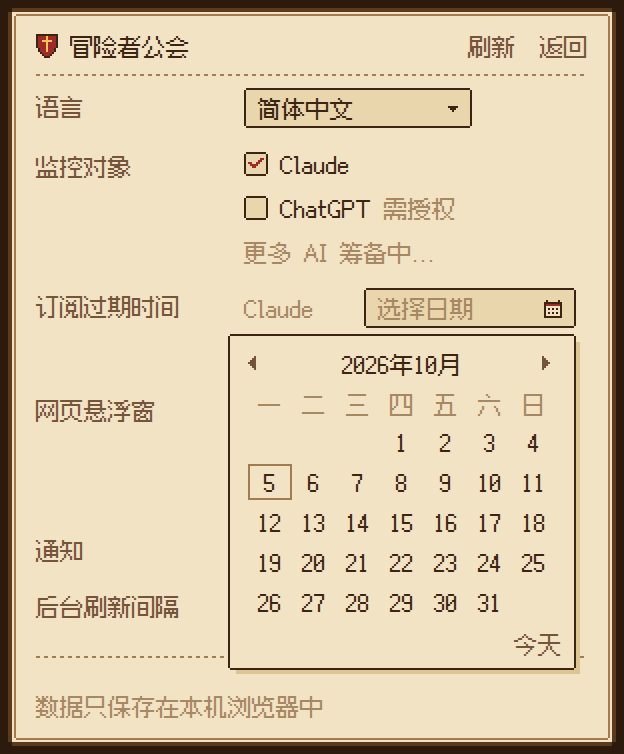
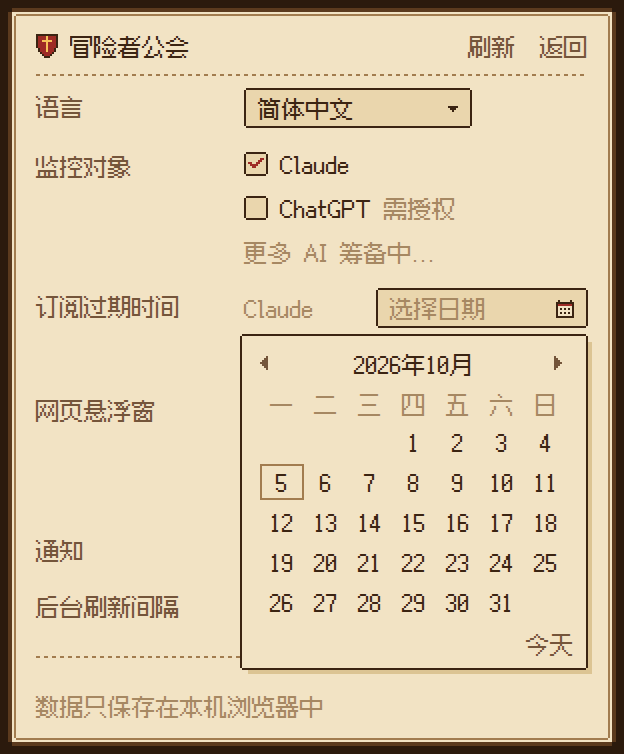
Add an English README; keep settings inside the card in every language
README.en.md mirrors the Chinese README with English UI screenshots
(docs/screenshots/en/), and both link to each other.

The English settings page ran past the card: the date row's Clear button
and the nowrap hint went off the right edge, and the HUD size row widened
the column. Clear now sits in the calendar's footer next to Today (Delete
also clears), the hint wraps, the date field sits on the column's right
edge so the open calendar covers the hint, and the inline size slider is
shorter. The preview now checks that nothing sticks out of the card in
Chinese, Japanese and English, and takes the English screenshots.

Claude-Session: https://claude.ai/code/session_01TFnLwZH9ayDfRYS7Y7nd9t

Changed region(s): [[0.3654, 0.366, 0.9744, 0.9151], [0.5785, 0.366, 0.7917, 0.4271], [0.5785, 0.6101, 0.609, 0.6406]]

diff --git a/extension/popup/controls.js b/extension/popup/controls.js
@@ -148,6 +148,7 @@ const dayKey = date => `${date.getFullYear()}-${pad(date.getMonth() + 1)}-${pad(
 
 /**
  * A date field with a pixel calendar. Values are YYYY-MM-DD strings ('' for none).
+ * The calendar's footer has Today, and Clear while a date is set (also Delete).
  *
  * @param {Document} doc
  * @param {{onChange: (day: string) => void, translator: () => Function, format: (ms: number) => string}} options
@@ -162,11 +163,12 @@ export function pixelDate(doc, { onChange, translator, format }) {
   const prev = h(doc, 'button', { class: 'pix-cal-nav prev', type: 'button' });
   const next = h(doc, 'button', { class: 'pix-cal-nav next', type: 'button' });
   const grid = h(doc, 'div', { class: 'pix-cal-grid', role: 'grid' });
-  const today = h(doc, 'button', { class: 'cmd', type: 'button' });
+  const clear = h(doc, 'button', { class: 'cmd pix-cal-clear', type: 'button' });
+  const today = h(doc, 'button', { class: 'cmd pix-cal-today', type: 'button' });
   const panel = h(doc, 'div', { class: 'pix-cal', role: 'dialog', hidden: true }, [
     h(doc, 'div', { class: 'pix-cal-head' }, [prev, title, next]),
     grid,
-    h(doc, 'div', { class: 'pix-cal-foot' }, today),
+    h(doc, 'div', { class: 'pix-cal-foot' }, [clear, today]),
   ]);
   const root = h(doc, 'span', { class: 'pix-dd' }, [button, panel]);
 
@@ -201,6 +203,8 @@ export function pixelDate(doc, { onChange, translator, format }) {
     prev.setAttribute('aria-label', t('cal.prev'));
     next.setAttribute('aria-label', t('cal.next'));
     today.textContent = t('cal.today');
+    clear.textContent = t('action.clear');
+    clear.hidden = !value;
 
     const weekStart = Number(t('cal.weekStart')) || 0;
     const names = t('cal.weekdays').split(',');
@@ -262,12 +266,17 @@ export function pixelDate(doc, { onChange, translator, format }) {
   prev.addEventListener('click', () => moveCursor(0, -1));
   next.addEventListener('click', () => moveCursor(0, 1));
   today.addEventListener('click', () => choose(dayKey(new Date())));
+  clear.addEventListener('click', () => choose(''));
   panel.addEventListener('keydown', event => {
     const keys = { ArrowLeft: [-1, 0], ArrowRight: [1, 0], ArrowUp: [-7, 0], ArrowDown: [7, 0], PageUp: [0, -1], PageDown: [0, 1] };
+    const onDay = event.target.classList?.contains('pix-cal-day');
     if (event.key === 'Escape') {
       event.preventDefault();
       control.close(true);
-    } else if (event.target.classList?.contains('pix-cal-day') && event.key in keys) {
+    } else if (onDay && (event.key === 'Delete' || event.key === 'Backspace') && value) {
+      event.preventDefault();
+      choose('');
+    } else if (onDay && event.key in keys) {
       event.preventDefault();
       moveCursor(...keys[event.key]);
     }

diff --git a/extension/popup/popup.js b/extension/popup/popup.js
@@ -146,11 +146,11 @@ const expiryFields = PROVIDERS.map(provider => {
     translator: () => t,
     format: ms => formatDate(ms, t.tag),
   });
-  const clear = h(doc, 'button', { class: 'cmd', type: 'button', onclick: () => saveDay('') });
   const name = h(doc, 'span', { class: 'set-sub set-name', text: provider.name });
-  return { provider, picker, clear, wrap: h(doc, 'div', { class: 'set-inline' }, [name, picker.el, clear]) };
+  // Clearing lives in the calendar's footer, so the row fits in every language.
+  return { provider, picker, wrap: h(doc, 'div', { class: 'set-inline set-date' }, [name, picker.el]) };
 });
-const expiryHint = h(doc, 'span', { class: 'set-hint' });
+const expiryHint = h(doc, 'span', { class: 'set-hint wrap' });
 
 const pollSlider = slider({
   ...POLL_RANGE,
@@ -236,13 +236,10 @@ function renderSettings() {
     check.text.textContent = provider.name;
     check.extra.textContent = provider.optionalPermission && !check.input.checked ? t('settings.needsPermission') : '';
   }
-  for (const { provider, picker, clear, wrap } of expiryFields) {
+  for (const { provider, picker, wrap } of expiryFields) {
     wrap.hidden = !watching.includes(provider);
-    const day = settings.rankExpiry[provider.id] ?? '';
-    picker.setValue(day);
+    picker.setValue(settings.rankExpiry[provider.id] ?? '');
     picker.setLabel(`${provider.name} ${t('settings.rankExpiry')}`);
-    clear.textContent = t('action.clear');
-    clear.hidden = !day;
   }
 
   pollSlider.set(settings.pollMinutes);

diff --git a/extension/popup/popup.css b/extension/popup/popup.css
@@ -81,6 +81,11 @@ body {
   flex: none;
 }
 
+/* A longer hint under a field: wraps instead of running past the card. */
+.set-hint.wrap {
+  white-space: normal;
+}
+
 .set-inline {
   display: flex;
   align-items: center;
@@ -204,6 +209,16 @@ body {
 .pix-range-value {
   min-width: 42px;
   white-space: nowrap;
+}
+
+/* Sharing a line with its label (HUD size: five steps, values all one width),
+   the slider is shorter so the row stays inside the card in every language. */
+.set-inline > .pix-range input {
+  width: 72px;
+}
+
+.set-inline > .pix-range .pix-range-value {
+  min-width: 0;
 }
 
 /* ------------------------------------------------- vendor tabs */
@@ -366,6 +381,15 @@ body {
   min-width: 52px;
 }
 
+/* Date field on the column's right edge, so its calendar covers the hint below it entirely. */
+.set-date {
+  align-self: stretch;
+}
+
+.set-date .pix-dd {
+  margin-left: auto;
+}
+
 .pix-cal {
   left: auto;
   right: 1px;
@@ -466,6 +490,10 @@ body {
 
 .pix-cal-foot {
   display: flex;
-  justify-content: flex-end;
   margin-top: 4px;
+}
+
+/* Clear on the left while a date is set; Today always on the right. */
+.pix-cal-today {
+  margin-left: auto;
 }

diff --git a/README.en.md b/README.en.md
@@ -1,0 +1,235 @@
+# Web AI Monitor - Adventurer's Guild
+
+[简体中文](README.md) | English
+
+A Chrome extension (Manifest V3) that shows how much of each AI's usage limits you have left, with live reset countdowns, as a pixel-art "adventurer's guild card" from an isekai fantasy world. It currently supports Claude and ChatGPT. Each vendor's limit plan template, data fetching and UI are decoupled: every vendor has its own set of gauges, treasures and rank ladder, and nothing from one vendor is forced onto another.
+
+| Claude | ChatGPT |
+| --- | --- |
+| ![Claude card](docs/screenshots/en/popup-claude.png) | ![ChatGPT card](docs/screenshots/en/popup-chatgpt.png) |
+
+| Page HUD (follows the vendor picked in the popup) | Settings (pixel calendar) |
+| --- | --- |
+| ![Claude HUD](docs/screenshots/en/hud-claude.png)<br><br>![ChatGPT HUD](docs/screenshots/en/hud-chatgpt.png)<br><br>Collapsed: ![Claude collapsed](docs/screenshots/hud-collapsed.png) ![ChatGPT collapsed](docs/screenshots/hud-collapsed-chatgpt.png) | ![Settings](docs/screenshots/en/settings.png)<br><br>![Calendar](docs/screenshots/en/settings-calendar.png) |
+
+The UI is available in Simplified Chinese (default), Japanese and English. The screenshots above are the English UI; the [Chinese README](README.md) shows the Chinese one.
+
+## Gauges (Claude)
+
+| Gauge | RPG meaning | Claude limit | Notes |
+| --- | --- | --- | --- |
+| MP Mana | Blue bar | Current session (5-hour session) | Drains as you use it; refills when the session ends |
+| HP Health | Green -> yellow -> red | Weekly / All models | Turns yellow below 50% left, red below 20% |
+| SP Ultimate | Gold ultimate bar | Weekly / Fable | Full = no Fable used yet, flashes READY!; using Fable drains it, the weekly reset refills it |
+| EX Extra | Greyish brown | Any new limit the template does not name | Popup only, so nothing is lost when Anthropic adds a limit |
+
+- Every bar shows what is **left** (= 100 - the used% on claude.ai's settings page).
+- Every bar has a live countdown: `2:13:45` under a day, `3d 04:12:09` beyond that (`3d4h` in the HUD).
+- Before a session starts, MP shows "Standby". When a countdown runs out the bar shows "Recovering..." and refills, and the background fetches fresh numbers right away.
+- On Pro or standard Team seats, which have no weekly Fable allowance, SP shows "Sealed".
+
+## The ChatGPT scheme
+
+Since August 2026 ChatGPT's text chat no longer has message caps; what actually runs out is the Codex allowance. So the ChatGPT card is a scheme of its own:
+
+| Element | ChatGPT meaning | Notes |
+| --- | --- | --- |
+| MP Mana | Codex / 5-hour window | "Sealed" when the plan has no 5-hour window |
+| HP Health | Codex / weekly window | Same colors as Claude |
+| EX Extra | Per-model limits, the Code review limit, workspace credits | Popup only |
+| Mana crystal | Codex credits (points, not money) | The balance on hand, or "Unlimited"; "Off" when there are none |
+| Potion | Limit resets | A count such as x3 |
+
+There is no ultimate gauge (SP), and no gold or emeralds: those belong to Claude's template. The rank ladder follows ChatGPT's personal plans: Pro = A, Pro Lite = B, Plus = C, Go = D, Free = E (Team / Business = B, Edu = C, Enterprise = S).
+
+ChatGPT is not monitored by default. Only when you tick ChatGPT under "Monitored AI" in settings does the extension ask Chrome for access to chatgpt.com. Once you allow it, fetching starts; unticking it gives the permission back.
+
+## Adventurer rank
+
+Under the vendor's name the popup shows the "Adventurer rank" and when the rank expires (ChatGPT's ladder is in the previous section):
+
+| Claude plan | Rank |
+| --- | --- |
+| Max 20x (top personal plan) | A |
+| Max 5x | B |
+| Pro | C |
+| Free | D |
+| Team / Enterprise (organization plans, not on the personal ladder) | B / S |
+
+- The rule lives in the vendor template: `ladder` lists the personal plans from highest to lowest. The first is A, and each step down is one letter lower. For another vendor, list its personal plans the same way. Organization plans state their rank in the template directly.
+- You pick the rank's expiry yourself under "Subscription ends" in settings, on a pixel calendar (one date per vendor: the day your subscription ends). Clear it from the calendar's footer, or with Delete. The rank is still valid on that day; after it, the card says "Rank expired on ...". It turns red within three days of the date and once it has passed.
+- On a paid plan with no date set, the card shows "Rank expiry not set"; clicking it jumps straight to that vendor's date field in settings. Free plans show nothing when unset. The HUD puts the rank and its expiry in the seal's tooltip.
+
+## Treasure pouch (credits)
+
+Below the gauges, the popup has a "Treasure pouch". Each entry reads like a gauge: the top line is the treasure's name and amount, the line below is the real credit it stands for and its state. Which treasures go in the pouch is up to each vendor's template; the table is Claude's (ChatGPT's is above):
+
+| Treasure | Real credit | Shown as |
+| --- | --- | --- |
+| Emerald | Cloud session credits (Claude Code cloud session credits, in US dollars) | Left / total, and a countdown to expiry; red below 20%; marked when expired, locked or used up |
+| Gold | Usage credits (extra usage) | Spent this month, and the monthly cap or "no cap"; "Off" when not enabled, "Cap reached" at the cap |
+
+An entry the account does not have is left out; when neither exists, the whole pouch is hidden. The HUD has no pouch, to stay small.
+
+## Features
+
+- **Popup**: the guild card (adventurer rank and its expiry), gauges with countdowns, the treasure pouch, "Updated Ns ago", and the settings page. When more than one vendor is monitored, vendor tabs (Claude / ChatGPT) appear at the top. The vendor you pick is saved in settings, and the page HUD and the toolbar icon switch with it.
+- **Settings**: the language dropdown and the date picker are custom pixel controls (a small parchment window, pixel arrows and pointer) and work from the keyboard: arrow keys and Enter in the dropdown; in the calendar, arrow keys move the day, PageUp / PageDown change the month, Delete clears, Esc closes.
+- **Page HUD**: by default it only appears on the sites of the vendors you monitor (claude.ai, plus chatgpt.com once that is on). It shows one vendor at a time: whichever vendor is picked in the popup, the HUD in every tab switches at once to that vendor's own panel (MP / HP / SP for Claude, only MP / HP for ChatGPT, and the same for the collapsed tab). Ticking "On every site (asks permission)" in settings is the only time the extension asks Chrome for access to all sites; once allowed, the HUD appears in the tabs already open, and unticking it gives the permission back. Its size is a slider in settings (100% - 200%; the pixels are sharpest at 100% and 200%). Drag it anywhere and it snaps to the nearest corner when released; collapse it into a 30x22 tab; it hides in full screen. It lives in a closed shadow DOM, so page styles do not touch it, and the pixel font works even on sites with a strict CSP.
+- **Monitored AI**: every supported vendor has a switch in settings (Claude on by default; ChatGPT off by default, and ticking it asks for chatgpt.com). A vendor switched off is no longer fetched, and the popup, HUD and toolbar icon stop showing it. The toolbar icon also shows the vendor picked in the popup; if that vendor is switched off, the popup, HUD and toolbar all fall back to the first vendor still monitored.
+- **Recovery notification** (off by default): ticking "Tell me when a gauge is full again" is when the notification permission is requested. When a used MP / HP / SP refills at its reset time, you get one desktop notification (once per window; notices missed by more than an hour while the browser was closed are dropped). Clicking it opens claude.ai.
+- **Toolbar icon**: the icon itself is the current vendor's mini gauges (three bars for Claude; ChatGPT has no SP, so two), live. There is no badge normally: it only shows the number left when MP is below 20%, and the time until MP returns (such as `45m`) once MP is empty. The tooltip has the full numbers and reset times.
+- **When it refreshes**:
+  - on a timer in the background (5 minutes by default; any value from 1 to 30 minutes with the slider in settings, by dragging, the mouse wheel or the arrow keys);
+  - about a second after each reply (or Codex task) finishes on claude.ai / chatgpt.com;
+  - when any window reaches its reset time;
+  - when you open the popup or come back to a tab (if the numbers are old);
+  - only every 30 minutes while you are signed out.
+- **Languages**: Simplified Chinese (default) / Japanese / English. It follows the browser unless you pick one in settings.
+
+## Install (developer mode)
+
+1. Clone this repository.
+2. Open `chrome://extensions` and turn on "Developer mode" (top right).
+3. Click "Load unpacked" and pick the repository's `extension/` folder.
+4. Make sure you are signed in to [claude.ai](https://claude.ai) in Chrome.
+5. claude.ai tabs that were open before the install need one reload before the HUD shows up. To show it on every site, tick "On every site" in the popup's settings.
+
+There is no build step: `extension/` is everything Chrome loads.
+
+## Where the data comes from, and where it stays
+
+- It reads the endpoints claude.ai's own web app uses (not a public API; they may change at any time):
+  - `GET https://claude.ai/api/organizations`: finds the current organization (the `lastActiveOrg` cookie first) and infers the plan;
+  - `GET https://claude.ai/api/organizations/{org}/usage`: the usage. Both the new `limits[]` format (`session` / `weekly_all` / `weekly_scoped` + `scope.model.display_name`) and the old `five_hour` / `seven_day` / `seven_day_*` keys are parsed; unknown fields are skipped. The treasure pouch comes from the same response: `extra_usage` (amounts in minor currency units, converted with `decimal_places`) and the cloud session credits (currently the code-named field `iguana_necktie`, in US dollars, where `resets_at` is the expiry; if the code name changes, it falls back to the keywords `cloud` / `ccr` / `remote_session`).
+- It reads the endpoints chatgpt.com's own web app uses (also not public):
+  - `GET https://chatgpt.com/api/auth/session`: the access token, account id and plan (`accessToken`, `account.id`, `account.planType`; the token is only kept in memory for the next request and never stored). When this goes through a tab, the page hands back only those three; `sessionToken`, the email, the name and every other field stay in the page. Newer pages reportedly no longer return a token here; the next request is then sent with cookies only;
+  - `GET https://chatgpt.com/backend-api/wham/usage` (with `Authorization` and `ChatGPT-Account-Id`): `rate_limit.primary_window` / `secondary_window` (`used_percent`, `limit_window_seconds`, `reset_at` as epoch seconds), `additional_rate_limits[]`, `code_review_rate_limit`, `spend_control.individual_limit`, `credits` (`balance` is a string), `rate_limit_reset_credits.available_count`, `plan_type`.
+- The background service worker asks directly first. If that is blocked (for example, it gets a challenge page), it borrows an open tab of that vendor and asks same-origin as the page (each vendor allows only the paths listed above, read-only GET; ChatGPT allows only the two request headers above to be passed on).
+- Data is only kept locally in `chrome.storage.local` and is never sent to any third-party server.
+
+### Permissions
+
+At install it only asks for the permissions in the first table, so Chrome's install prompt only says "Read and change your data on claude.ai".
+
+| Asked at install | What for |
+| --- | --- |
+| `host_permissions: https://claude.ai/*` | Reading the usage endpoints in the background; showing the HUD on claude.ai and noticing when a reply finishes, to refresh right away |
+| `storage` | Keeping usage snapshots and settings |
+| `alarms` | Timed refreshes, and refreshing at reset times |
+| `cookies` | Reading claude.ai's `lastActiveOrg`, to follow the organization you switch to on the site |
+| `scripting` | Once every site is allowed, registering the HUD script and adding it to open tabs |
+
+| Asked when needed (optional) | When |
+| --- | --- |
+| `optional_host_permissions: http(s)://*/*` | When you tick "On every site"; unticking gives it back |
+| `optional_host_permissions: https://chatgpt.com/*` | When you tick ChatGPT under "Monitored AI"; unticking gives it back |
+| `optional_permissions: notifications` | When you tick "Tell me when a gauge is full again"; unticking gives it back |
+
+If you revoke any of these yourself in `chrome://extensions`, the matching setting switches off too.
+
+## Architecture: decoupled vendors
+
+```
+extension/
+  providers/                  one folder per vendor; the only place that knows vendor details
+    index.js                  vendor registry
+    claude/provider.js        fetch + normalize: vendor API -> Meter[] (id, kind, scope, used, resetsAt)
+    claude/template.js        limit plan template (data only): which limit plays which role, which credit is
+                              which treasure, plan -> rank, vendor-specific text
+    chatgpt/provider.js       ChatGPT: /api/auth/session + /backend-api/wham/usage -> Meter[] + Wallet[]
+    chatgpt/template.js       ChatGPT's own scheme: MP / HP + EX, mana crystals / potions, a ladder from Pro
+  core/                       vendor-agnostic
+    gauges.js                 Meter[] + template -> each card row (left, level, READY, sealed, recovering)
+    wallets.js                Wallet[] + template -> each pouch row (balance, cap, expiry, state)
+    rank.js                   plan + template ladder -> adventurer rank; the date you pick -> rank expiry
+    roles.js                  the role vocabulary: mp / hp / sp / ex; treasures: coin / emerald / crystal / potion
+    i18n.js, messages.js      languages
+    time.js                   countdowns and time formats
+    settings.js, store.js     settings and snapshots (chrome.storage.local)
+    http.js                   the minimal HTTP interface a provider sees
+  ui/                         theme and components (shared by the popup and the HUD)
+    theme.css                 the guild card pixel theme
+    card.js                   vendor card / gauge components
+    pixel-icon.js             the toolbar icon's pixel art
+  background/                 the only writer of data: polling, reset alarms, the tab proxy, the toolbar icon,
+                              recovery notifications (notify.js), all-sites permission and script registration (page-hud.js)
+  content/                    the HUD + vendor page hooks (reply finished, proxied requests)
+  popup/                      the popup
+```
+
+Data flow:
+
+```
+vendor API --provider.fetchUsage()--> Meter[] + Wallet[] --written by background--> chrome.storage.local
+                                                                                      |
+                        popup / the HUD on each page <------- listen for changes -----+
+                        buildGaugeViews(vendor template, Meter[])   -> MP / HP / SP gauges
+                        buildWalletViews(vendor template, Wallet[]) -> treasure pouch
+```
+
+Each layer has one job:
+
+- **provider** only knows how to get the data and turn it into uniform Meters; it does not know MP/HP/SP exist;
+- **template** only describes, as data, which limits the vendor's plans have and which role each plays; it contains no logic;
+- **theme/components** only know roles, never vendors.
+
+### Adding a vendor
+
+1. Create `extension/providers/<id>/template.js`, for example:
+
+   ```js
+   export default {
+     gauges: [
+       { key: 'short', role: 'mp', match: { kind: 'three_hour' }, label: { key: 'acme.short' } },
+       { key: 'weekly', role: 'hp', match: { kind: 'weekly', scope: null }, label: { key: 'meter.weeklyAll' } },
+       { key: 'pro', role: 'sp', match: { kind: 'weekly', scope: 'pro-model' }, label: { key: 'acme.pro' }, optional: true },
+     ],
+     wallets: [{ key: 'credits', treasure: 'coin', match: { id: 'prepaid' }, label: { key: 'acme.credits' } }], // optional
+     ladder: ['pro', 'plus', 'free'],   // personal plans, highest first: pro = A, plus = B, free = C
+     plans: { pro: { name: 'Pro' }, plus: { name: 'Plus' }, free: { name: 'Free' }, business: { name: 'Business', rank: 'S' } },
+     messages: {
+       zh_CN: { 'acme.short': '3 小时窗口', 'acme.pro': '每周 / Pro 模型', 'acme.credits': '预付额度' },
+       ja: { 'acme.short': '3 時間枠', 'acme.pro': '週間 / Pro モデル', 'acme.credits': 'プリペイド' },
+       en: { 'acme.short': '3-hour window', 'acme.pro': 'Weekly / Pro model', 'acme.credits': 'Prepaid credits' },
+     },
+   };
+   ```
+
+2. Create `extension/providers/<id>/provider.js` exporting `{ id, name, site, origin, homeUrl, template, proxyPaths, proxyHeaders?, proxyBody?, isActivity(path, ms), fetchUsage(http) }`, where `fetchUsage(http)` returns `{ meters, wallets, plan }` (`wallets` may be an empty array). For extra request headers (a Bearer token, say), use `http.getJson(path, { headers })` and list the headers that may pass through a tab in `proxyHeaders`. If a response carries sensitive fields you do not need, use `proxyBody(path, body)` so the tab hands back only what you need.
+3. Register it in `extension/providers/index.js`. Pick one way to get its site:
+   - always on: add the domain to `host_permissions` and `content_scripts.matches` in `manifest.json`;
+   - on request (recommended; ChatGPT works this way): set `enabledByDefault: false, optionalPermission: true` on the provider and add the domain to `optional_host_permissions`. Ticking it makes the popup ask for the permission, and the background registers the site's page script by itself.
+4. Templates may only use the treasures in `TREASURES` in `core/roles.js` (coin / emerald / crystal / potion). For a new treasure, register it there and draw its pixel art in `TREASURE_ART` in `ui/dom.js`.
+5. If the template brings new UI text, run `npm run build:font` to rebuild the font subset.
+
+## Development
+
+Needs Node 22+.
+
+```sh
+npm test                 # unit tests: parsing, template mapping, pouch, rank, recovery, countdowns, languages, settings, icon
+npm run build:icons      # generates the 16/32/48/128 icons from ui/pixel-icon.js
+npm run build:font       # rebuilds the pixel font subset when UI text changes (needs pip install fonttools brotli)
+npm run preview          # loads the extension with Playwright against a mocked claude.ai, runs end-to-end checks,
+                         # and saves screenshots to preview-out/
+```
+
+`npm run preview` needs `npm install` and `npx playwright install chromium` first. It loads two copies of the extension in turn, the one as shipped (no optional permissions) and one with the optional permissions granted, and checks that:
+
+- by default the HUD appears on claude.ai only, not on other sites, and no script is registered;
+- when the direct background request is blocked, data comes through a claude.ai tab, with both pouch entries parsed correctly;
+- the gauges refresh after a reply finishes;
+- once allowed, the HUD and the pixel font appear on other sites (including one with a strict CSP), and hide again when "On every site" is turned off;
+- a used gauge that resets sends one, and only one, "fully restored" notification;
+- rank expiry: when unset, its hint opens the pixel calendar in settings; a picked date is saved and shown, and can be cleared from the calendar's footer;
+- the pixel dropdown: arrow keys to choose, Enter to save, a click outside to close;
+- ChatGPT: once ticked, data comes through a chatgpt.com tab with the token, and its card only has MP / HP / EX, mana crystals and potions, with no ultimate, gold or emeralds;
+- picking a vendor tab in the popup switches the HUD on chatgpt.com and on ordinary pages, and the toolbar tooltip, to that vendor (the ChatGPT panel has no SP, collapsed or not), and picking Claude switches them all back;
+- the popup and its settings stay inside the card in Chinese, Japanese and English, with dates set and the calendar open;
+- the refresh interval slider (mouse wheel, arrow keys) goes from 1 to 30 minutes and the timer follows; the HUD at 200% is exactly twice the size;
+- switching Claude off shows a hint in the popup and hides the HUD, and switching it back on restores both.
+
+## Font
+
+The UI font is [Fusion Pixel Font](https://github.com/TakWolf/fusion-pixel-font) (the 12px proportional variant, which includes glyphs from Ark Pixel Font), under the SIL Open Font License 1.1. The repository only keeps the ~380 glyphs the UI uses (about 12 KB), renamed `WAM Guild Pixel`; the license is in `extension/assets/fonts/`.
